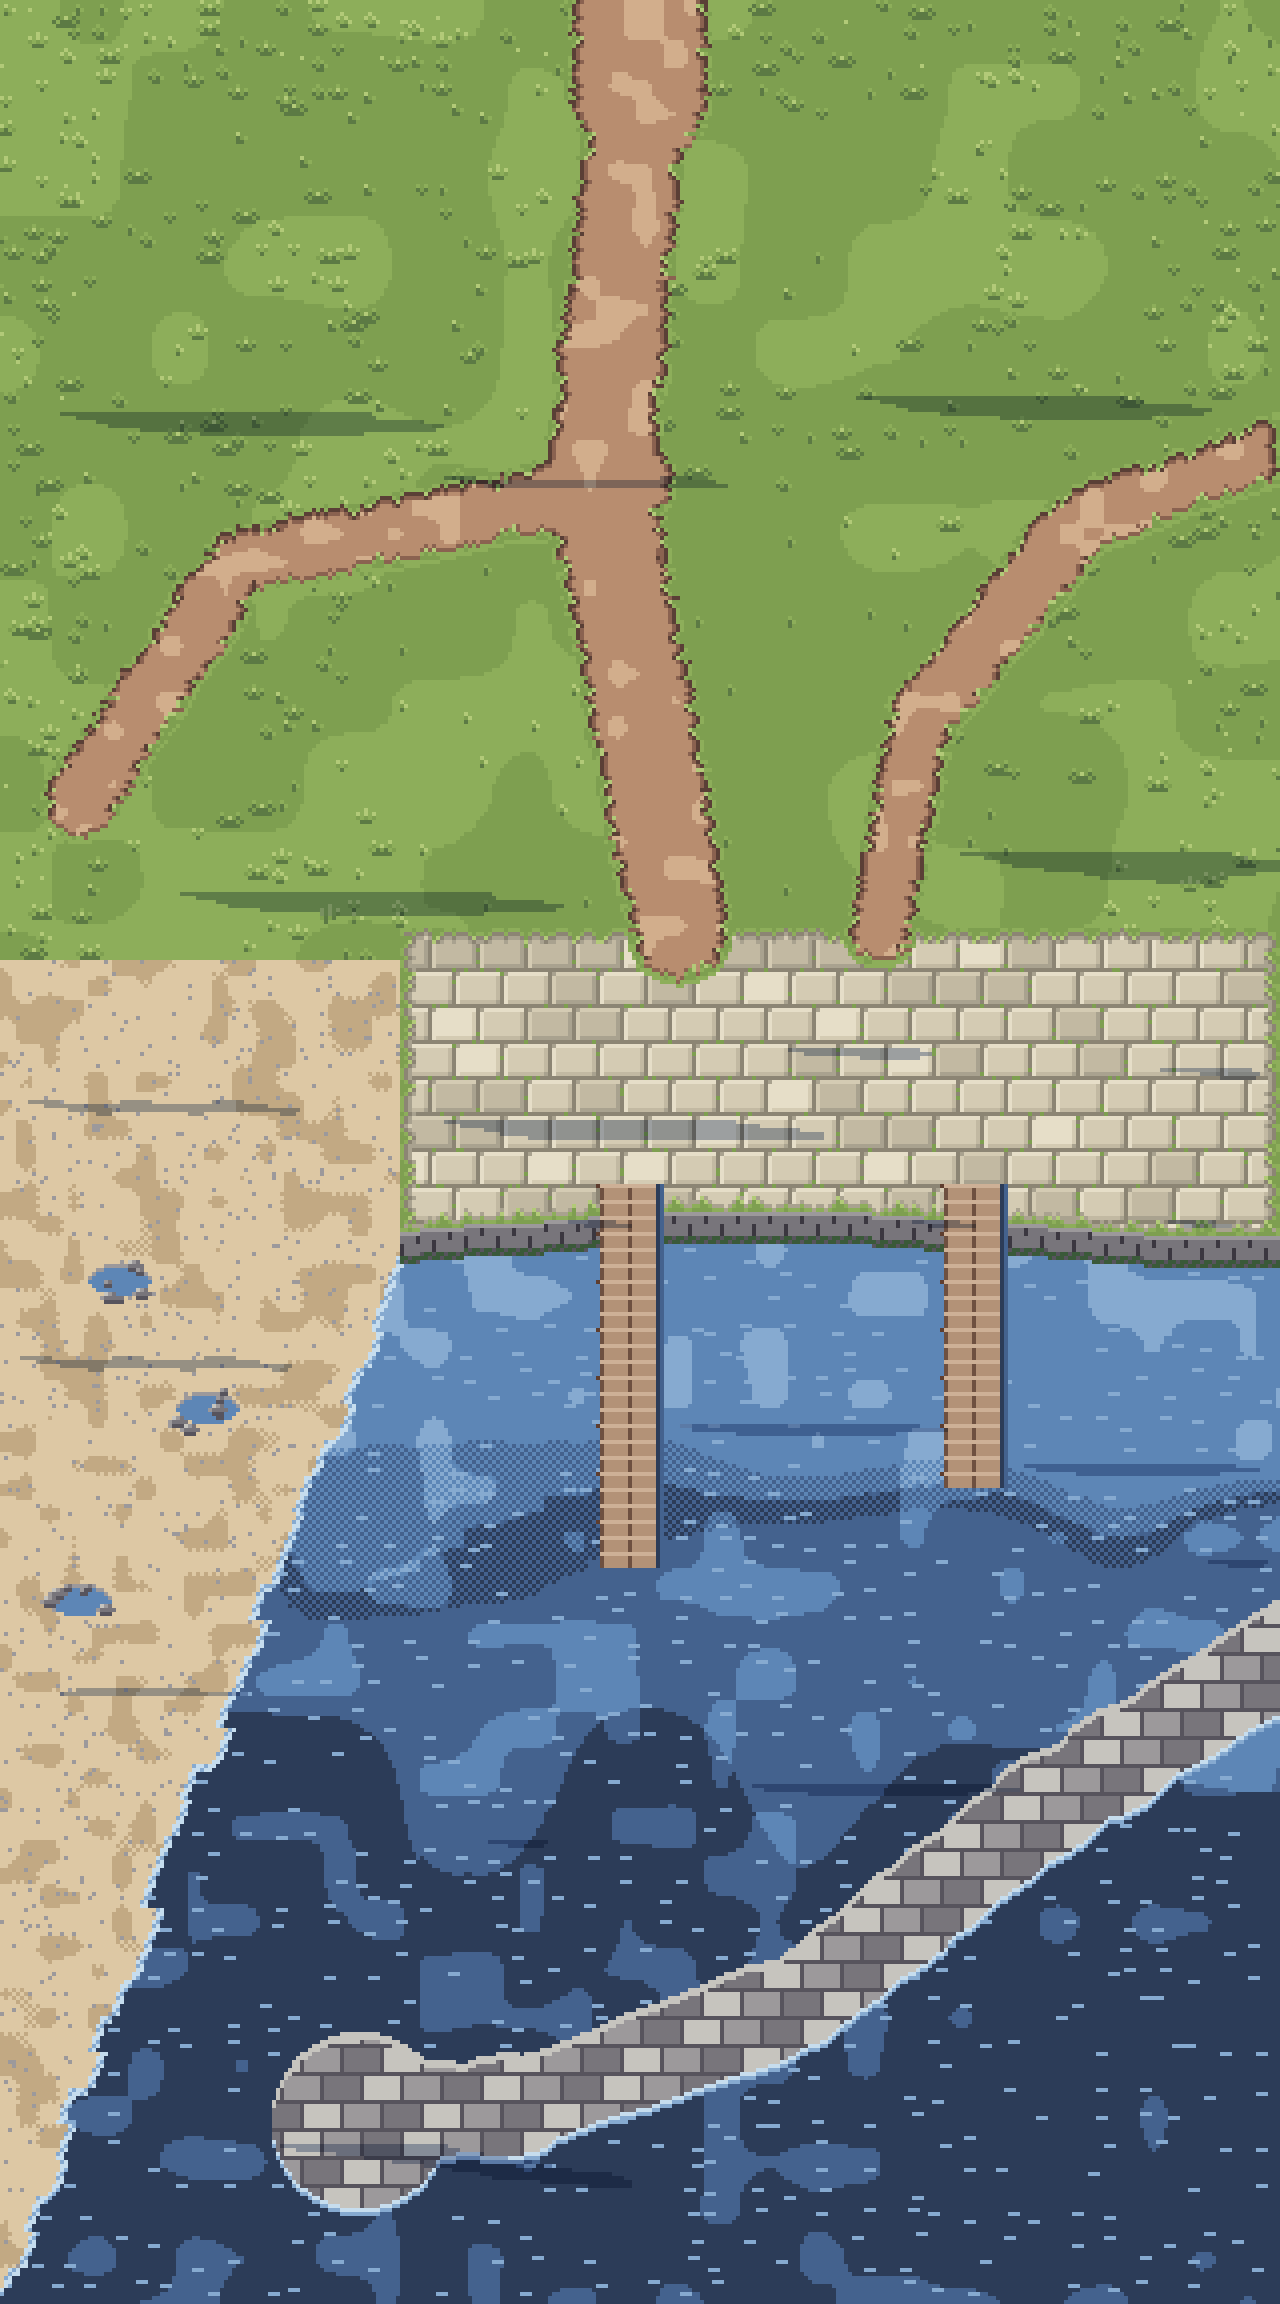
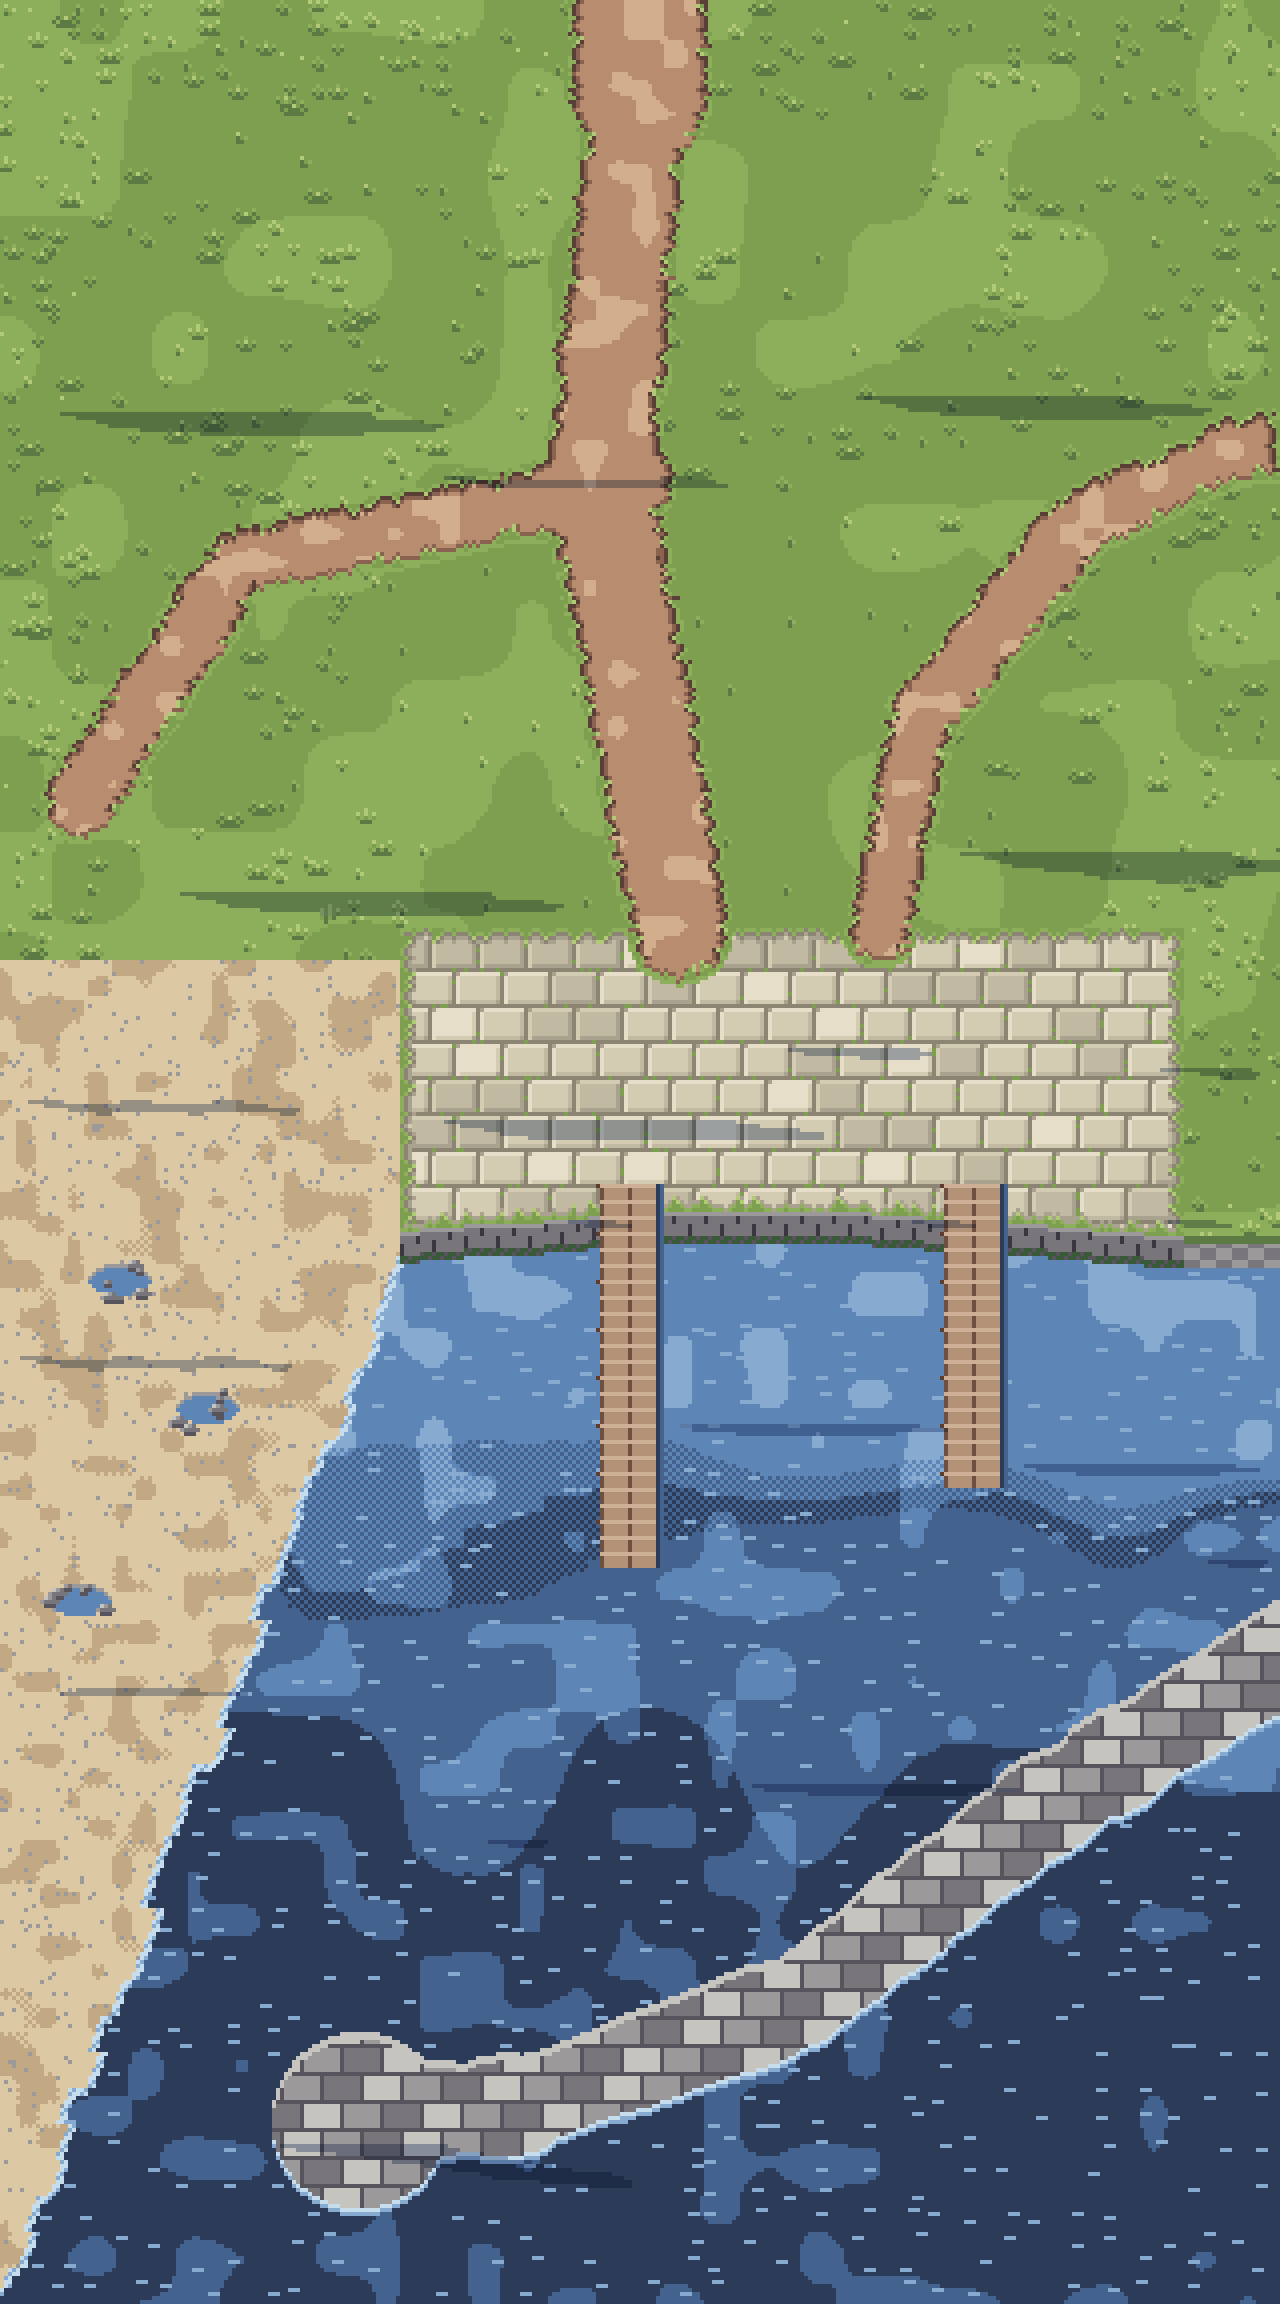
Harbour and castle meet without a seam
The cliff path leaves the harbour and enters the castle zone at the same height
and width with no turf edge at the border; the harbour's water meets the
headland's west edge, where the breakwater now runs on to its root against the
headland's foot; the quay stops short of the border and a rocky bank carries the
shore on. The castle path is re-routed round the headland above the new shore.

Claude-Session: https://claude.ai/code/session_01UudrmtYkicLNgZeuSjvjrK

Changed region(s): [[0.9062, 0.4062, 1.0, 0.5625], [0.875, 0.1562, 1.0, 0.25]]

diff --git a/scripts/art/zones.py b/scripts/art/zones.py
@@ -908,14 +908,19 @@ def harbour(frame: int = 0):
         for k in range(6):
             detail.pebble(cv, px - 9 + int(noise2(k, px, 298) * 18), py - 5 + int(noise2(k, py, 298) * 10), MATERIALS['stone'], big=k % 2 == 0)
     # the quay: dressed stone with a lit edge and a face down to the water
-    quay = {(x, y) for x in range(100, W) for y in range(232, shore_y(x) + 6)}
+    quay = {(x, y) for x in range(100, 296) for y in range(232, shore_y(x) + 6)}
     worlds.paint_paving(cv, quay, seed=9)
     for x in range(100, W):
         y = shore_y(x) + 6
         for k in range(8):
-            c = STONE[3] if k == 0 else STONE[2] if (x + (k // 3) * 4) % 8 else STONE[0]
-            if k > 5:
-                c = MATERIALS['leaf'][1] if (x + k) % 3 else STONE[1]  # weed at the waterline
+            if x < 296:  # the quay's dressed face
+                c = STONE[3] if k == 0 else STONE[2] if (x + (k // 3) * 4) % 8 else STONE[0]
+                if k > 5:
+                    c = MATERIALS['leaf'][1] if (x + k) % 3 else STONE[1]  # weed at the waterline
+            else:  # past the quay, a rough rocky bank that runs on below the headland
+                c = STONE[3] if (x // 4 + k // 3) % 2 else STONE[2]
+                if k < 2:
+                    c = G[1]
             cv.set(x, y + k, c)
     # the breakwater: big blocks curving round the basin to the lighthouse
     bw = worlds.thick([(W + 6, 410), (260, 452), (200, 500), (130, 526), (92, 528)], 12, seed=15)
@@ -946,8 +951,8 @@ def harbour(frame: int = 0):
     road = worlds.thick([(160, -4), (160, 24)], 18) | worlds.thick([(160, 20), (150, 120), (170, 232)], 14, seed=16)
     road |= worlds.thick([(160, 120), (60, 140), (20, 200)], 9, seed=17)
     paint_road(cv, road | {(x, y) for (x, y0) in road if y0 == 0 for y in range(-12, 0)})
-    cliff = worlds.thick([(W + 4, 110), (270, 130), (230, 180), (220, 232)], 9, seed=18)  # to the castle
-    paint_road(cv, cliff)
+    cliff = worlds.thick([(W + 6, 110), (W - 12, 112)], 9) | worlds.thick([(W - 10, 112), (270, 130), (230, 180), (220, 232)], 9, seed=18)  # to the castle
+    paint_road(cv, cliff | {(x, y) for (x0, y) in cliff if x0 == W - 1 for x in range(W, W + 12)})
     objects = [
         ('cottage-1', 'cottage', 10, 30), ('cottage-2', 'cottage_b', 210, 26), ('cottage-3', 'cottage', 40, 150),
         ('cottage-4', 'cottage_b', 236, 140), ('market', 'fish_stall', 108, 226), ('pots-1', 'lobster_pots', 196, 240),
@@ -974,7 +979,9 @@ def castle(frame: int = 0):
     worlds.grass(cv, frame)
     # the sea cliffs: the headland's edge to the south and east, a face and the sea
     def edge_y(x):
-        return 470 + int(math.sin(x / 31) * 10 + noise2(x // 7, 0, 321) * 8) - max(0, (x - 260) * 2)
+        # the harbour's water meets the headland's west edge below y = 306 (seamless rule)
+        e = 470 + int(math.sin(x / 31) * 10 + noise2(x // 7, 0, 321) * 8) - max(0, (x - 260) * 2)
+        return min(e, 306 + int(x * 2.7)) if x < 60 else e
     sea = set()
     for x in range(W):
         e = edge_y(x)
@@ -998,9 +1005,17 @@ def castle(frame: int = 0):
             cv.set(x, y, c)
             if k < 26:
                 sea.add((x, y)) if k > 2 else None
+    # the harbour's breakwater runs on to its root against the headland's foot
+    root = worlds.thick([(-8, 410), (22, 404)], 12)
+    for (x, y) in root:
+        blk = ((x + 8 + (y // 7) % 2 * 5) // 10 + y // 7) % 3
+        c = STONEm[3] if blk == 0 else STONEm[2] if blk == 1 else STONEm[4]
+        if (x + 8 + (y // 7) % 2 * 5) % 10 == 0 or y % 7 == 0:
+            c = STONEm[1]
+        cv.set(x, y, c)
     # the path from the harbour along the outer meadow to the drawbridge
-    path = worlds.thick([(-4, 116), (30, 150), (34, 400), (120, 420), (182, 404), (182, 384)], 11, seed=19)
-    paint_road(cv, path)
+    path = worlds.thick([(-6, 110), (12, 112)], 9) | worlds.thick([(10, 112), (30, 150), (40, 300), (74, 404), (140, 420), (182, 404), (182, 384)], 10, seed=19)
+    paint_road(cv, path | {(x, y) for (x0, y) in path if x0 == 0 for x in range(-12, 0)})
     # the dry ditch below the south wall, crossed by the drawbridge
     ditch = {(x, y) for x in range(60, 300) for y in range(352, 380)}
     for (x, y) in ditch:
@@ -1041,7 +1056,7 @@ def castle(frame: int = 0):
     ]
     blocked = sea | ditch - {(x, y) for x in range(168, 196) for y in range(350, 384)}
     blocked |= {(x, y) for x in range(70, 82) for y in range(40, 350)} | {(x, y) for x in range(282, 294) for y in range(40, 350)}
-    stands = {'harbour': (14, 118), 'bridge': (182, 396), 'gate': (182, 344), 'courtyard': (190, 230),
+    stands = {'harbour': (14, 112), 'bridge': (182, 396), 'gate': (182, 344), 'courtyard': (190, 230),
               'keep': (176, 206), 'herbs': (160, 290), 'meadow': (220, 430)}
     return cv, objects, stands, blocked
 
